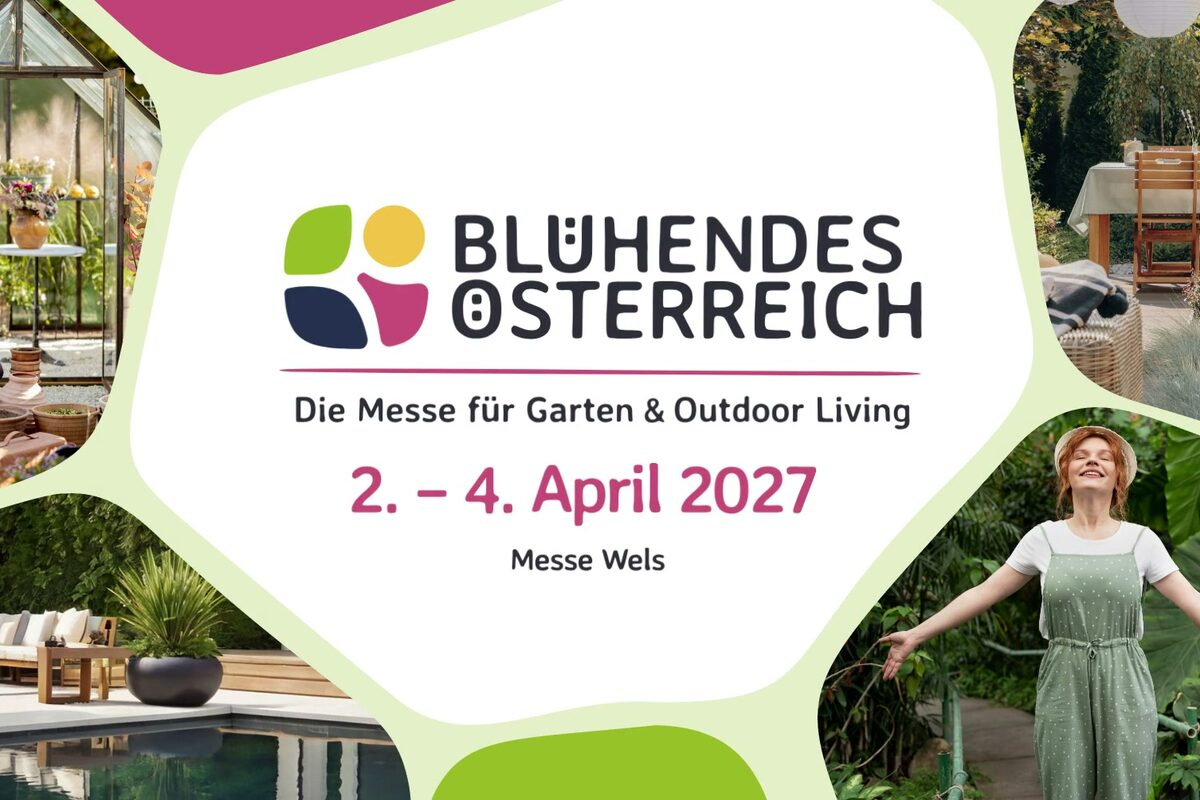
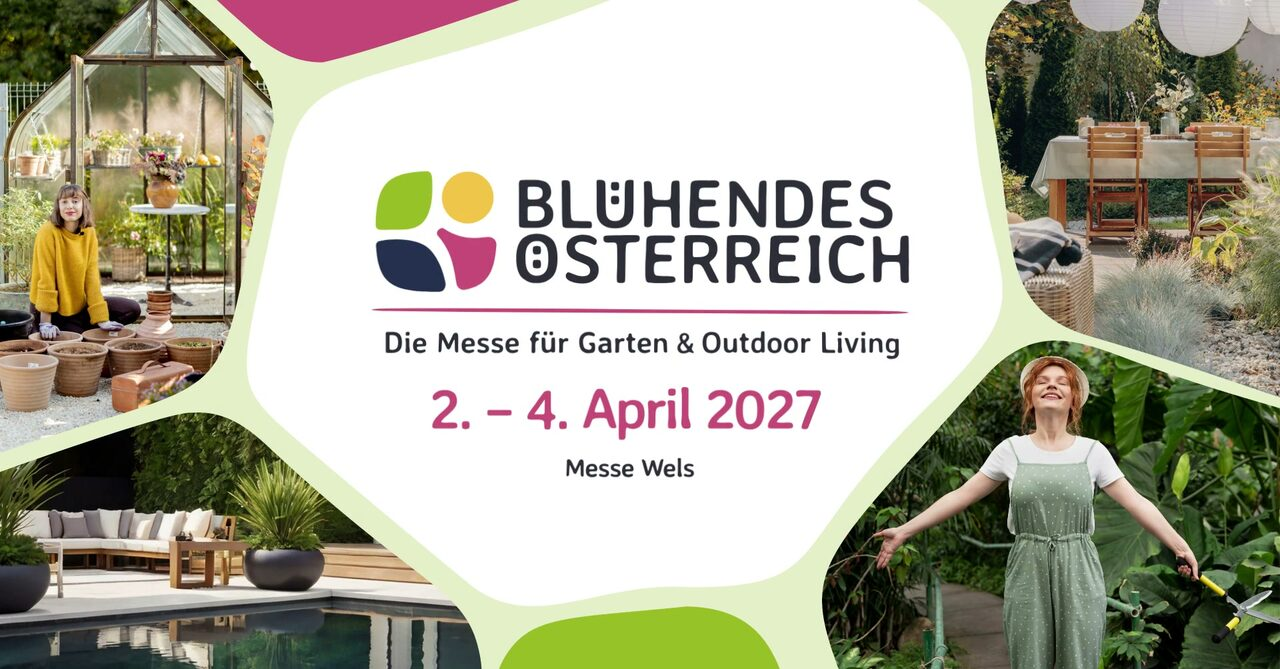
Video-Kachel im Format des Videos statt 3:2
Die Fotokacheln sind 3:2, das Video ist 1,91:1 — object-fit cover
schnitt damit 21 % der Breite weg. Bei einem Foto verkraftbar, bei
einem Film nicht: was am Rand fehlt, fehlt in Bewegung und Schnitt.
Die Kachel bekommt deshalb das Seitenverhältnis des Videos, am Handy
ebenso statt der festen Höhe von 180 px. Beschnitt jetzt 0 %.

Posterbild im selben Format, sonst springt die Kachel beim Laden.

Claude-Session: https://claude.ai/code/session_01Ap4CPEGWqMLJvQD5diL758

diff --git a/css/style.css b/css/style.css
@@ -1034,8 +1034,17 @@ section {
   overflow: hidden;
 }
 
-/* Bewegtbild in der Projektkachel. Füllt dieselbe Fläche wie ein Foto,
-   damit die Kachelreihe ruhig bleibt. */
+/* Bewegtbild in der Projektkachel.
+
+   Die Kachel bekommt das Seitenverhältnis des Videos, nicht die 3:2 der
+   Fotokacheln. Grund: bei 3:2 schneidet `cover` rund 21 % der Breite weg,
+   und ein Film ist kein Foto — was dort wegfällt, fehlt in der Bewegung
+   und im Schnitt. Jede Projektzeile steht für sich (Bild links, Text
+   rechts), eine flachere Kachel bricht also kein Raster. */
+.project__image--video {
+  aspect-ratio: 1920 / 1004;
+}
+
 .project__video {
   width: 100%;
   height: 100%;
@@ -2059,6 +2068,13 @@ a.contact__value:hover {
   .project__image {
     height: 180px;
     aspect-ratio: unset;
+  }
+
+  /* Das Video behält auch am Handy sein Format – auf 180 px feste Höhe
+     gezwungen bliebe wieder nur ein Ausschnitt übrig. */
+  .project__image--video {
+    height: auto;
+    aspect-ratio: 1920 / 1004;
   }
 
   .project__image img {

diff --git a/index.html b/index.html
@@ -448,7 +448,7 @@
 
         <div class="projects-list">
           <article class="project" data-reveal>
-            <div class="project__image">
+            <div class="project__image project__image--video">
               <video class="project__video"
                      src="assets/video/bluehendes-oesterreich.mp4"
                      poster="assets/images/bluehendes-oesterreich-poster.jpg"
